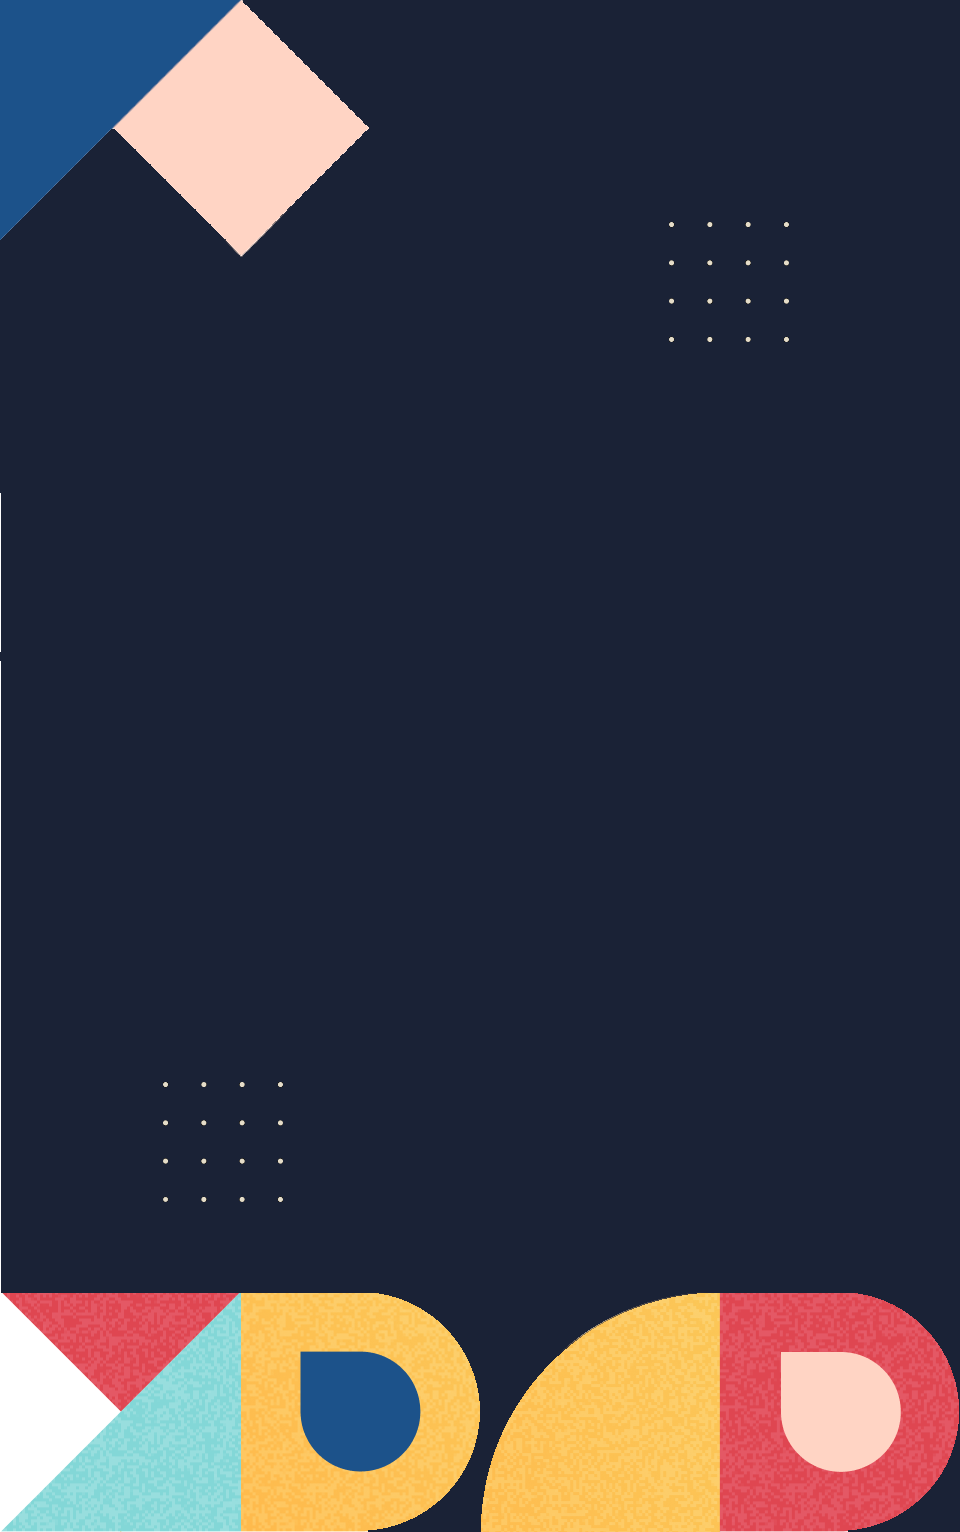
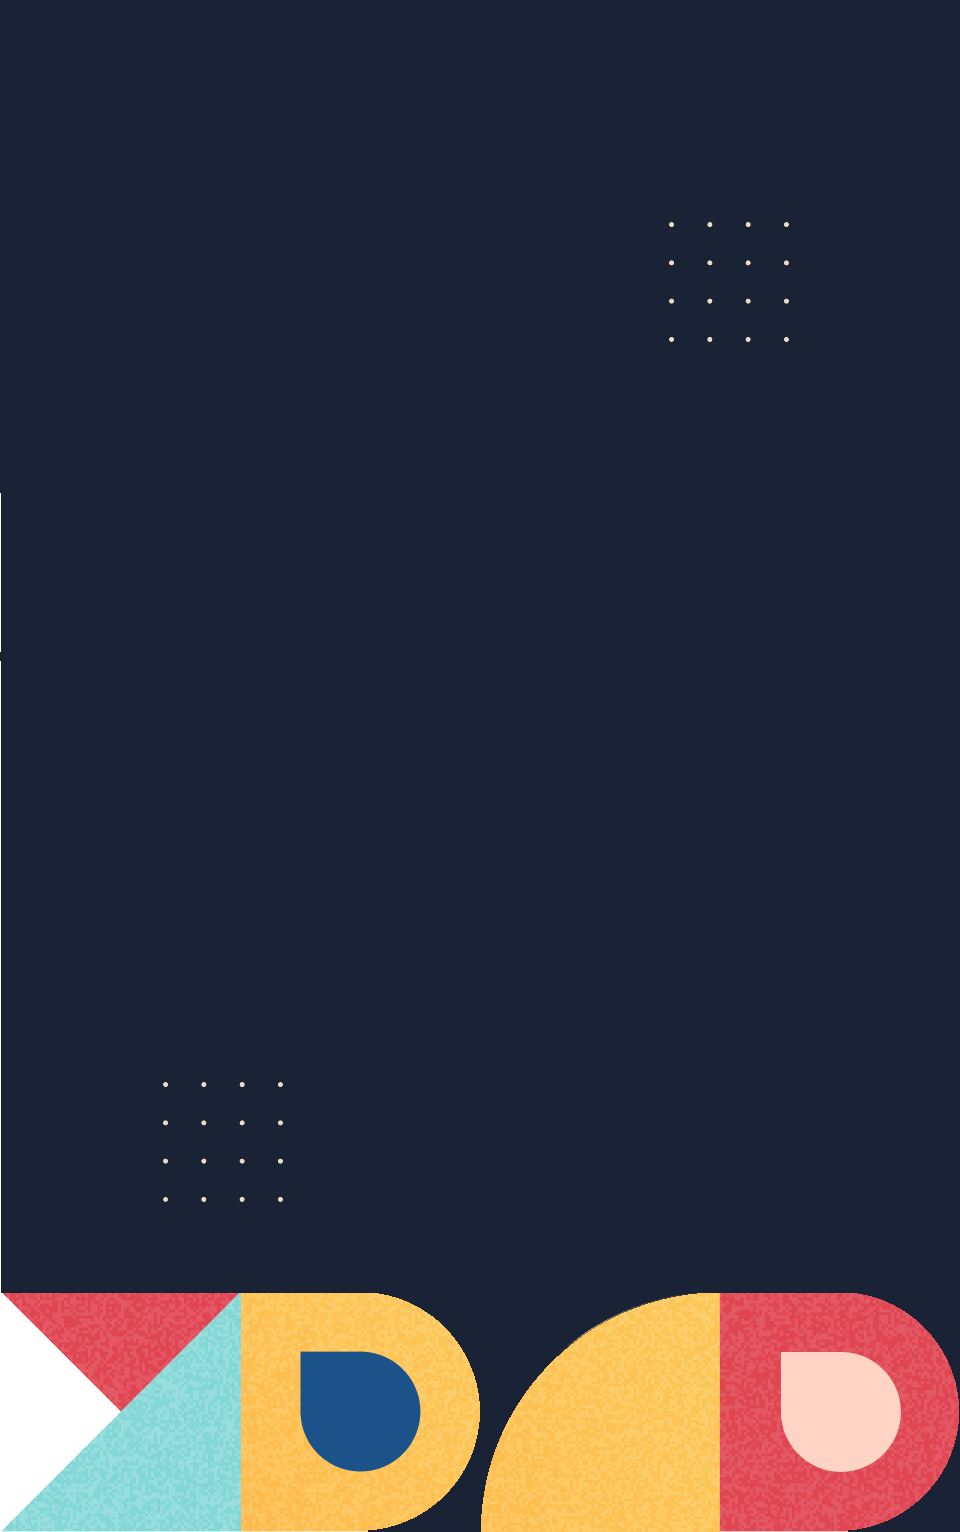
Fix linter errors, minor style fix

Changed region(s): [[0.0, 0.0, 0.375, 0.1841]]

diff --git a/style.css b/style.css
@@ -22,7 +22,7 @@ ul {
   display: none;
 }
 
-.js-toggle{
+.js-toggle {
   height: 100vh;
   width: 100%;
   background-image: url('./img/mobile-menu.png');
@@ -38,24 +38,12 @@ ul {
   display: flex;
 }
 
-.js-main-menu li {
-    color: #fff;
-    padding: 1.5em;
-    font-family: Poppins, sans-serif;
-    font-style: normal;
-    font-weight: normal;
-    font-size: 20px;
-    line-height: 24px;
+.color1 {
+  background: #1c528a !important;
 }
 
-.js-main-menu li>a:visited {
-  color: #fff;
-  text-decoration: none;
-}
-
-.js-main-menu li>a {
-  color: #fff;
-  text-decoration: none;
+.color2 {
+  background: #ffd4c4 !important;
 }
 
 .main-menu {
@@ -155,6 +143,11 @@ ul {
   position: relative;
   left: 87.5vw;
   top: 15px;
+  transition: 0.2s;
+}
+
+.cross:hover {
+  color: #fec25a;
 }
 
 .menu-bar:hover {
@@ -431,6 +424,26 @@ footer {
 }
 
 footer a {
+  text-decoration: none;
+}
+
+.js-main-menu li {
+  color: #fff;
+  padding: 1.5em;
+  font-family: Poppins, sans-serif;
+  font-style: normal;
+  font-weight: normal;
+  font-size: 20px;
+  line-height: 24px;
+}
+
+.js-main-menu li > a {
+  color: #fff;
+  text-decoration: none;
+}
+
+.js-main-menu li > a:visited {
+  color: #fff;
   text-decoration: none;
 }
 
@@ -835,12 +848,12 @@ footer a {
     background: none;
   }
 
-  .main-menu li>a:visited {
+  .main-menu li > a {
     color: #fff;
     text-decoration: none;
   }
-  
-  .main-menu li>a {
+
+  .main-menu li > a:visited {
     color: #fff;
     text-decoration: none;
   }

diff --git a/script.js b/script.js
@@ -1,16 +1,19 @@
 function menuToggle() {
-    var mq = window.matchMedia( "(max-width: 1100px)");
-    if (mq.matches) {
-        let div = document.querySelector('#main-nav-bar');
-        let div2 = document.querySelector('#menu-js');
-        let burger = document.querySelector('#burger-container');
-        let cross = document.querySelector('#cross');
-        let shapes = document.querySelector('#shape-toggle');
-        div.classList.toggle('js-toggle');
-        div2.classList.toggle('js-main-menu');
-        div2.classList.toggle('main-menu');
-        burger.classList.toggle('invisible');
-        cross.classList.toggle('invisible');
-        shapes.classList.toggle('invisible');
-    }
+  const mq = window.matchMedia('(max-width: 1100px)');
+  if (mq.matches) {
+    const div = document.querySelector('#main-nav-bar');
+    const div2 = document.querySelector('#menu-js');
+    const burger = document.querySelector('#burger-container');
+    const cross = document.querySelector('#cross');
+    const shape1 = document.querySelector('#shape-1');
+    const shape2 = document.querySelector('#shape-2');
+    div.classList.toggle('js-toggle');
+    div2.classList.toggle('js-main-menu');
+    div2.classList.toggle('main-menu');
+    burger.classList.toggle('invisible');
+    cross.classList.toggle('invisible');
+    shape1.classList.toggle('color1');
+    shape2.classList.toggle('color2');
+  }
 }
+menuToggle();

diff --git a/index.html b/index.html
@@ -4,7 +4,7 @@
     <meta charset="UTF-8">
     <meta name="viewport" content="width=device-width, initial-scale=1.0">
     <link rel="stylesheet" href="style.css">
-    <script type="text/javascript" src="script.js"></script>
+    <script src="script.js"></script>
     <link rel="stylesheet" href="https://use.fontawesome.com/releases/v5.15.3/css/all.css">
     <link rel="preconnect" href="https://fonts.googleapis.com">
     <link href="https://fonts.googleapis.com/css2?family=Poppins:ital,wght@0,100;0,300;1,100&display=swap" rel="stylesheet">
@@ -22,10 +22,8 @@
   <body>
 
     <nav class="menu-top" id="main-nav-bar">
-      <div id="shape-toggle">
-        <div class="shape-triangle"></div>
-        <div class="shape-square"></div>
-      </div>
+      <div class="shape-triangle" id="shape-1"></div>
+      <div class="shape-square" id="shape-2"></div>
       <div onclick="menuToggle()" class="burger-container" id="burger-container">
         <div class="menu-bar"></div>
         <div class="menu-bar"><span class="red-line"></span></div>
@@ -35,7 +33,7 @@
         <div onclick="menuToggle()" id="cross" class="cross invisible">
           <i class="fas fa-times"></i>
         </div>
-        
+
         <ul class="main-menu" id="menu-js">
           <li><a onclick="menuToggle()" href="#main-page">Hello</a></li>
           <li><a onclick="menuToggle()" href="#portfolio">Portfolio</a></li>
